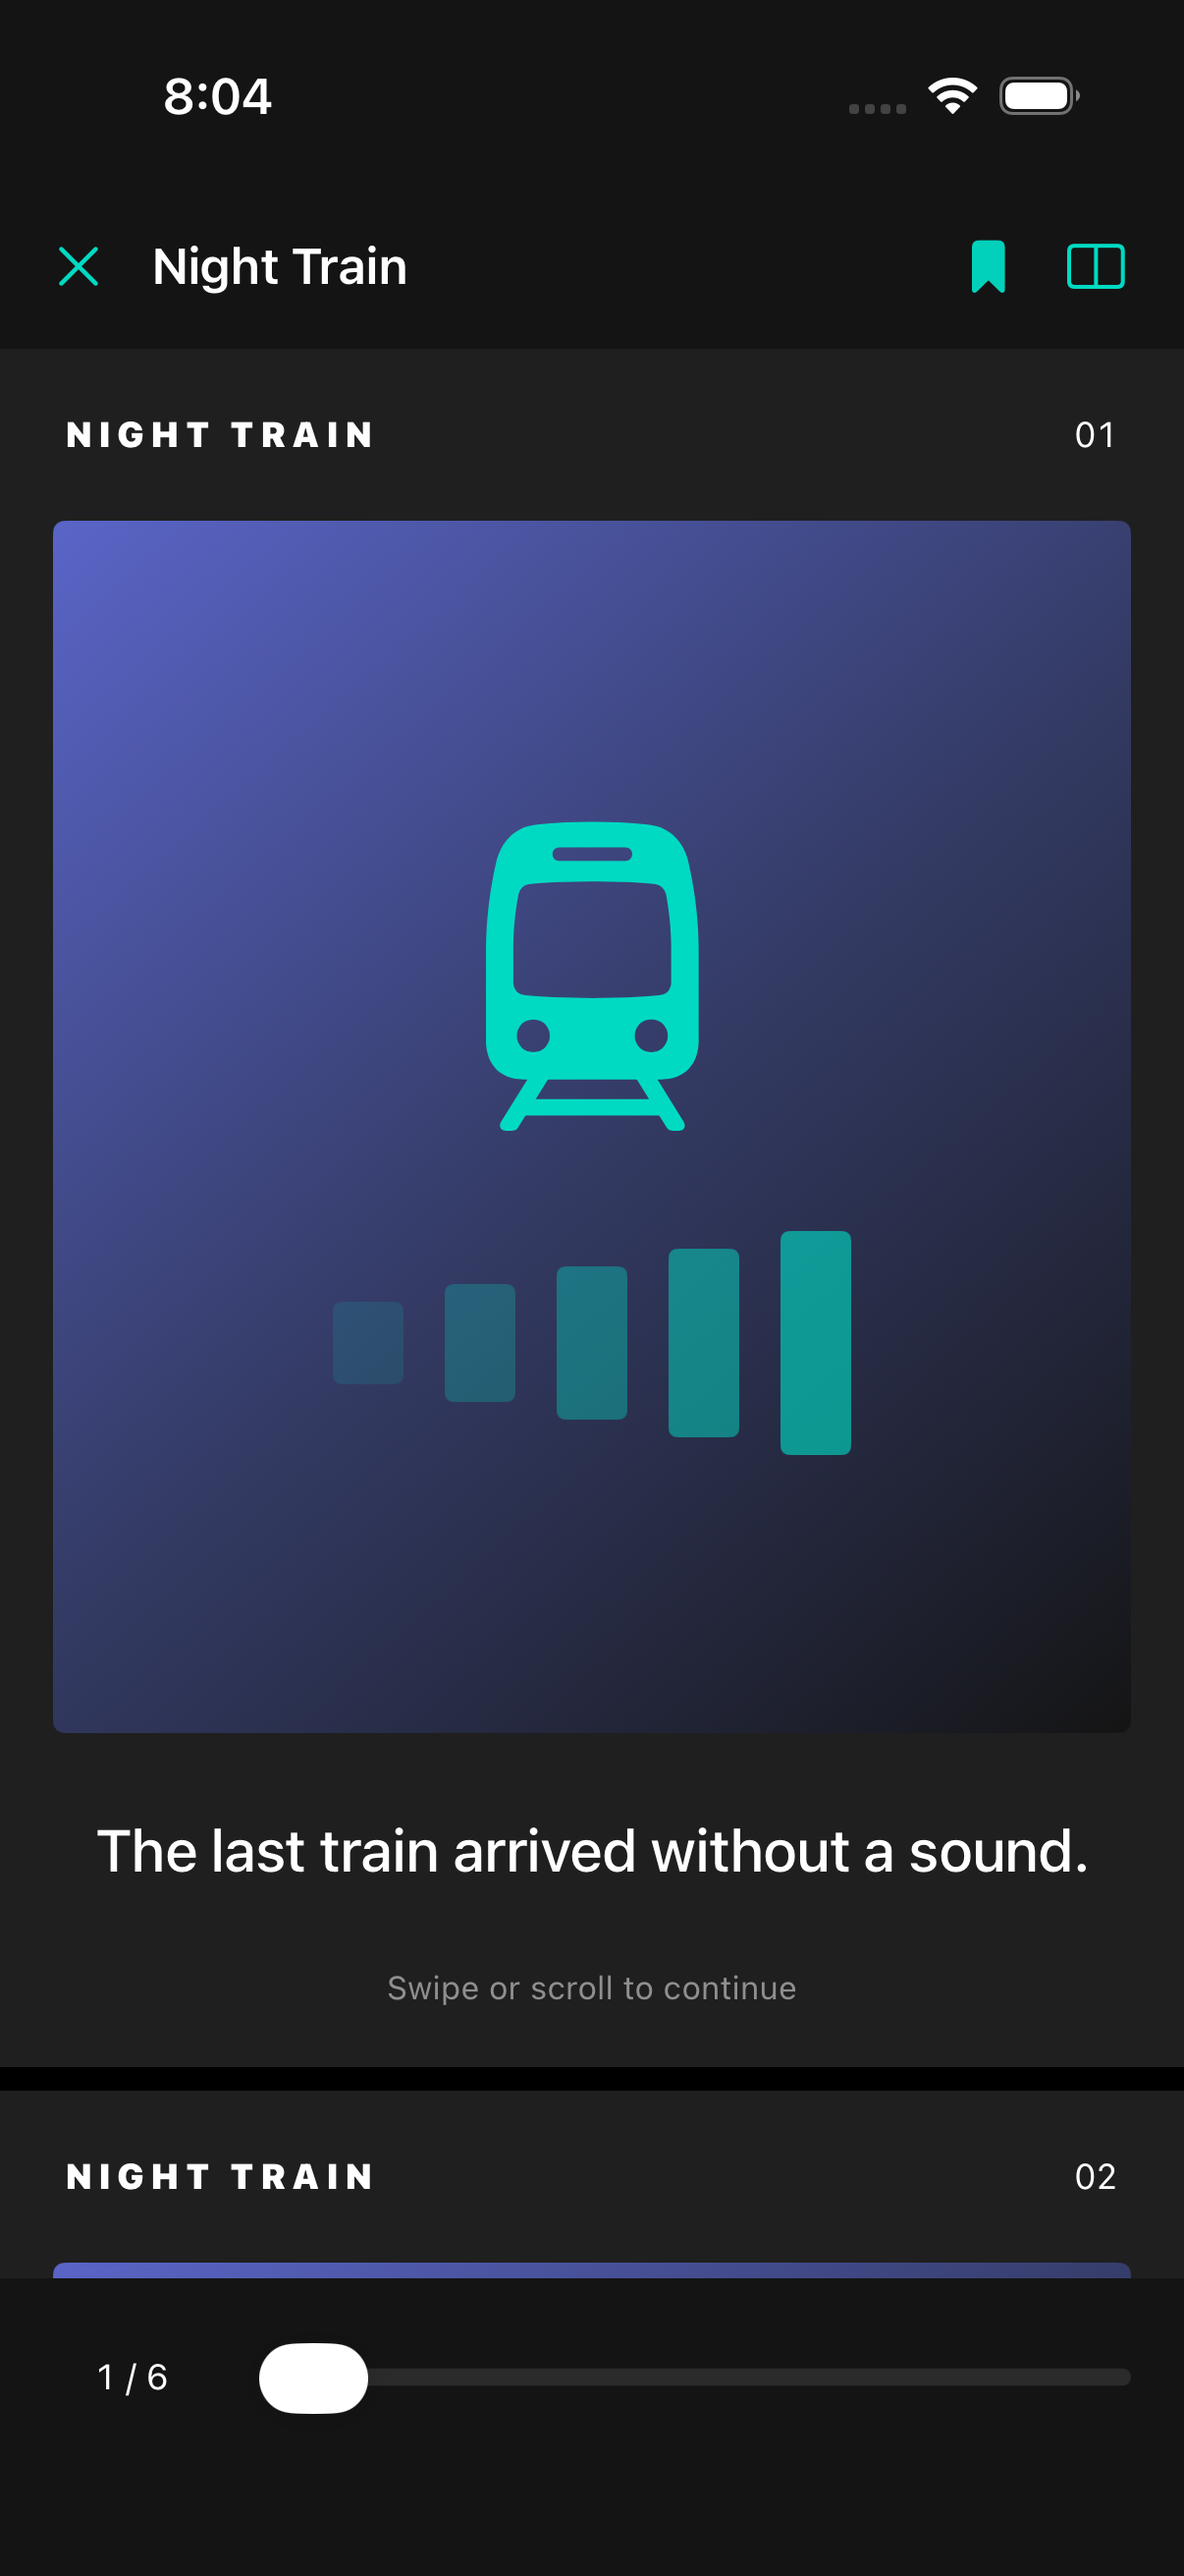
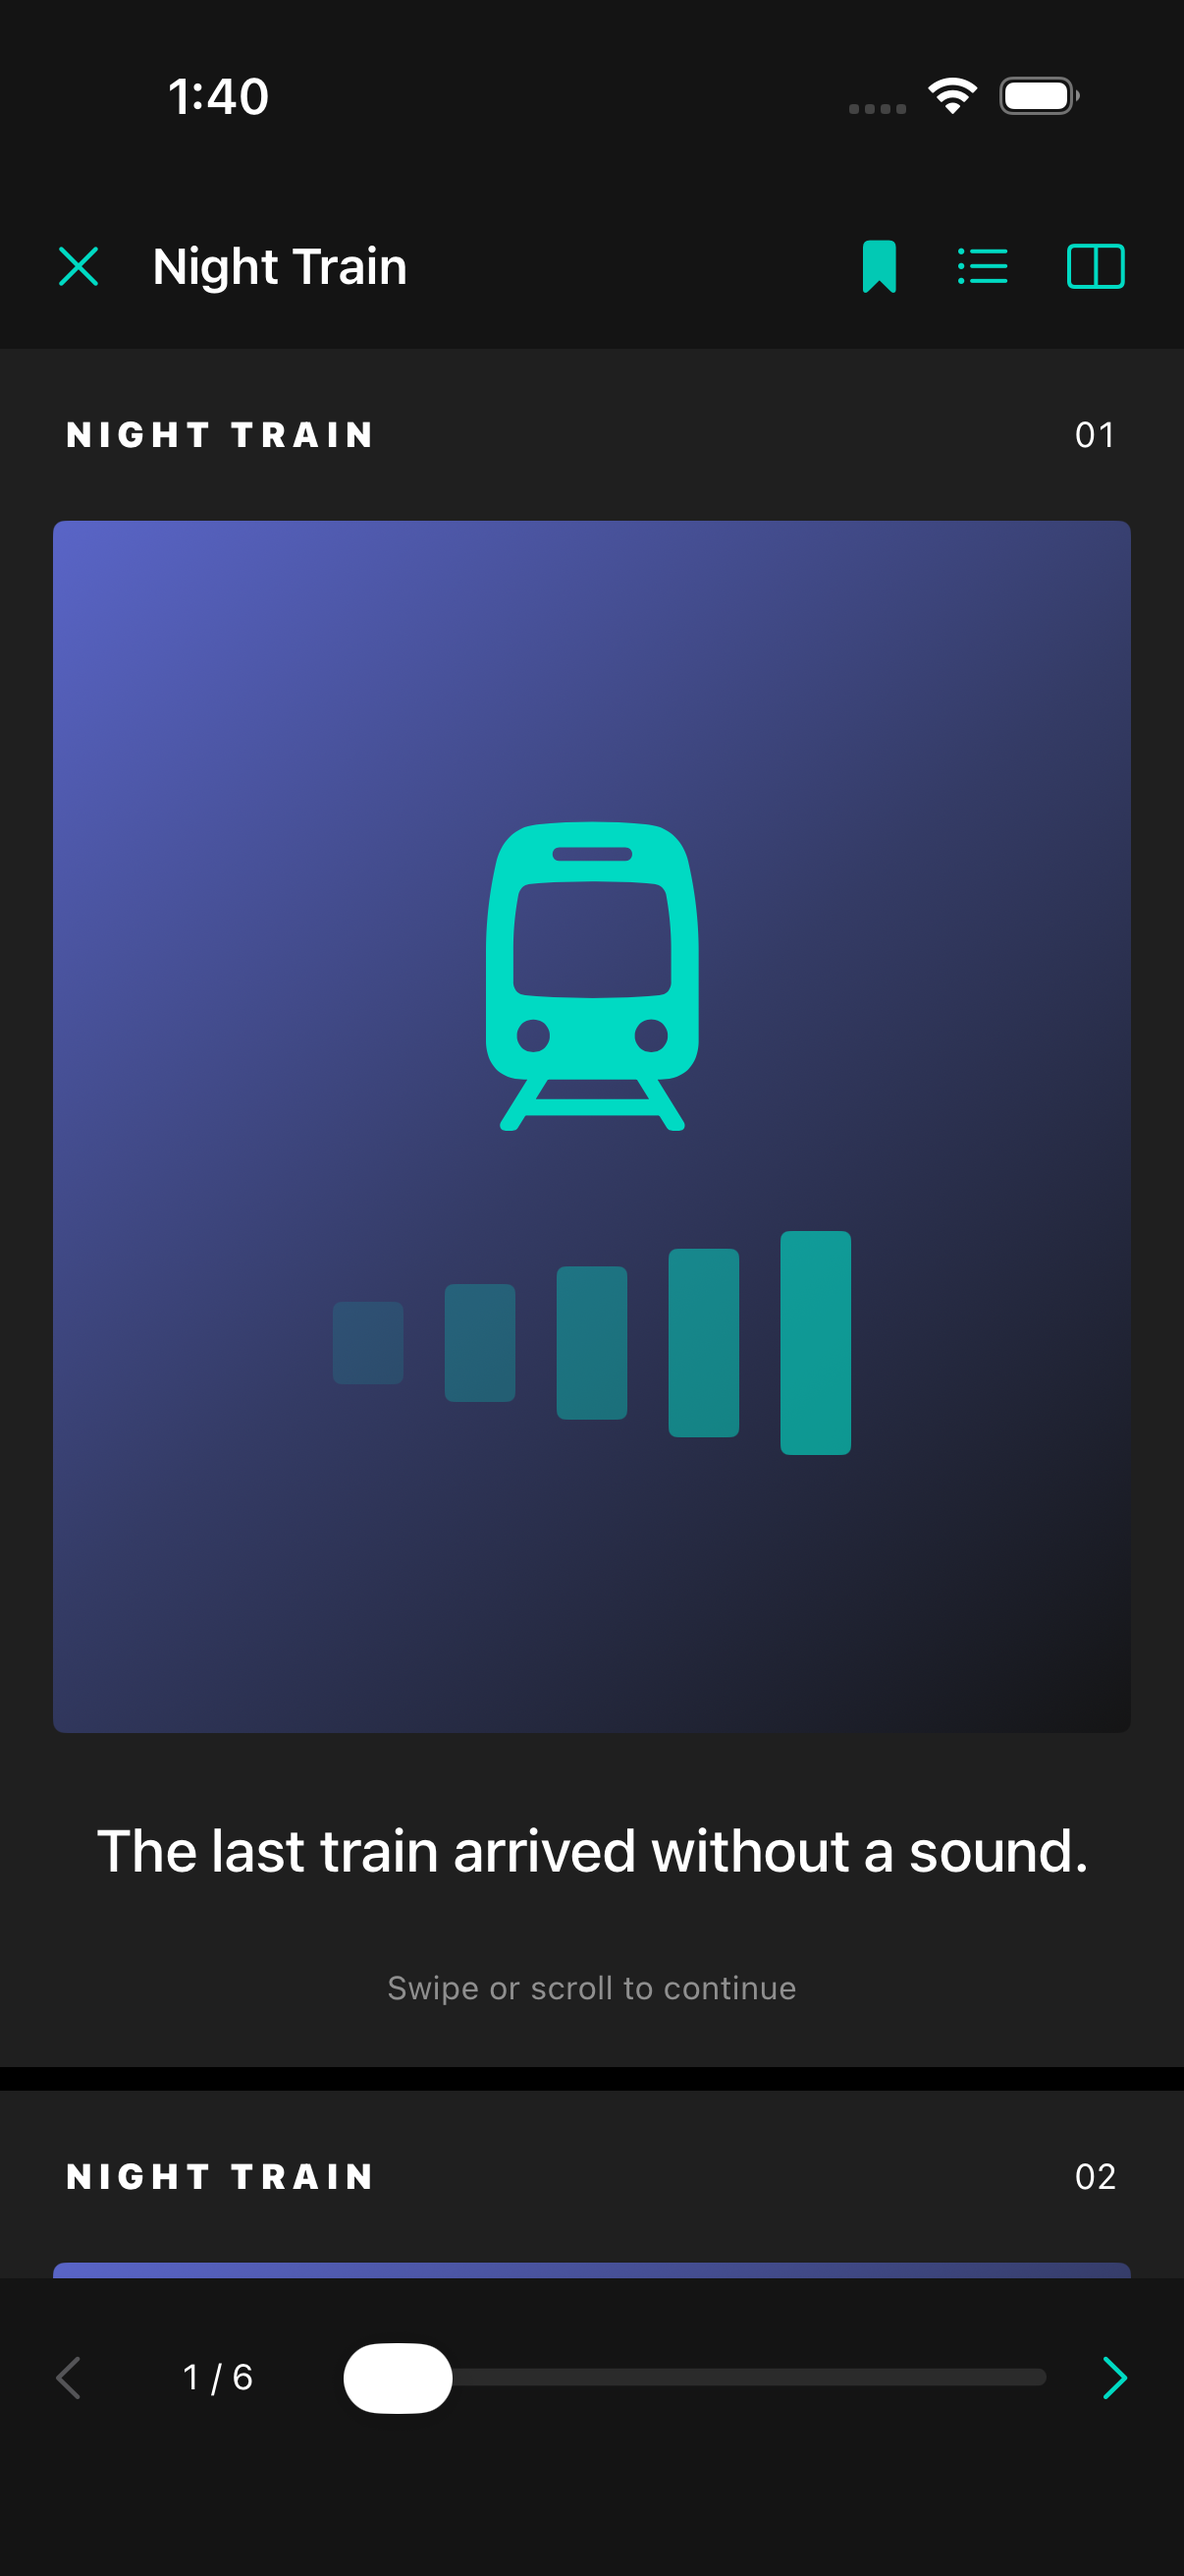
Publish verified reader previews and seven passing tests [skip ci]

diff --git a/README.md b/README.md
@@ -11,12 +11,11 @@ and use the included GitHub Actions workflow to build on a cloud Mac.
 
 ## Current status
 
-The source is public. Background imports, cached covers, right-to-left pages,
-page buttons and bookmark jumping have been added; cloud validation of these
-changes is in progress. The previous [cloud build and all five tests](https://github.com/masukur190929/panel-reader-ios/actions/runs/37901946618)
-passed on 9 October 2026 using Xcode 26.6 and an iPhone simulator. Four library
-tests cover imports, saved state and preserving a damaged library. The UI test
-opens the original sample, reads it, saves a bookmark and checks history.
+The source is public. The [latest cloud build and all seven tests](https://github.com/masukur190929/panel-reader-ios/actions/runs/37937634798)
+passed on 9 October 2026 using Xcode 26.6 and an iPhone simulator. Five library
+tests cover background imports, saved state, damaged-library preservation and
+large-cover downsampling. Two UI tests verify the sample flow, page buttons,
+bookmark jumps, right-to-left swipes and reopening at the saved page.
 Screenshots and a test summary are exported as the `reader-ui-previews` Actions
 artifact; download it from the linked run while its five-day retention lasts.
 
@@ -26,7 +25,7 @@ configured.
 
 ## Simulator preview
 
-UI-test screenshots from the previous validated build, on an iPhone 17 Pro simulator running iOS 26.5. The latest screenshots are exported by the current cloud build.
+Actual UI-test screenshots from the latest validated build, on an iPhone 17 Pro simulator running iOS 26.5.
 The sample artwork is original demonstration content.
 
 | Library | Reader |
@@ -34,6 +33,7 @@ The sample artwork is original demonstration content.
 | ![Library](docs/images/library.png) | ![Reader](docs/images/reader.png) |
 
 [Book details](docs/images/book-details.png) · [History](docs/images/history.png)
+· [Right-to-left reader](docs/images/reader-rtl.png)
 · [Machine-readable test summary](docs/validation/simulator-test-summary.json)
 
 ## Features implemented in the source

diff --git a/START_HERE.md b/START_HERE.md
@@ -9,8 +9,8 @@ submission have not run.
 
 Your public repository is
 [masukur190929/panel-reader-ios](https://github.com/masukur190929/panel-reader-ios).
-The source and cloud workflows are included there. The compile, all four
-library tests and the UI test passed. Follow these steps to check the results
+The source and cloud workflows are included there. The compile, all five
+library tests and both UI tests passed. Follow these steps to check the results
 and continue development:
 
 1. Open the repository's **Actions** page and choose **Build and test iOS** to
@@ -43,8 +43,10 @@ App Review. Apple decides whether the app is accepted.
 
 ## What is included
 
-- PDF and image imports, an original six-page sample, search and favourites.
-- Vertical and horizontal reading, saved progress, bookmarks and history.
+- Background PDF/image imports, cached covers, an original six-page sample,
+  search and favourites.
+- Vertical/horizontal reading, right-to-left pages, previous/next buttons,
+  bookmark jumps, saved progress and history.
 - An Xcode project and cloud build/test and TestFlight upload workflows.
 - Tests for file imports, persistence and preservation of a damaged library,
   plus a UI check of the sample's reading, bookmarking and history flow.
